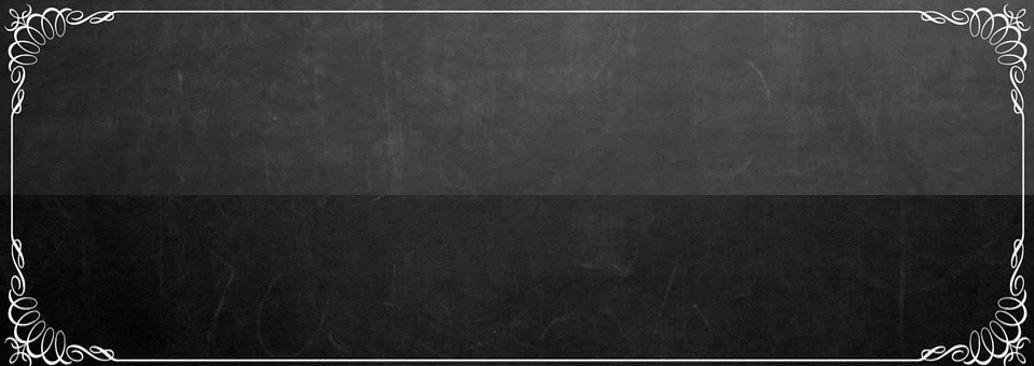
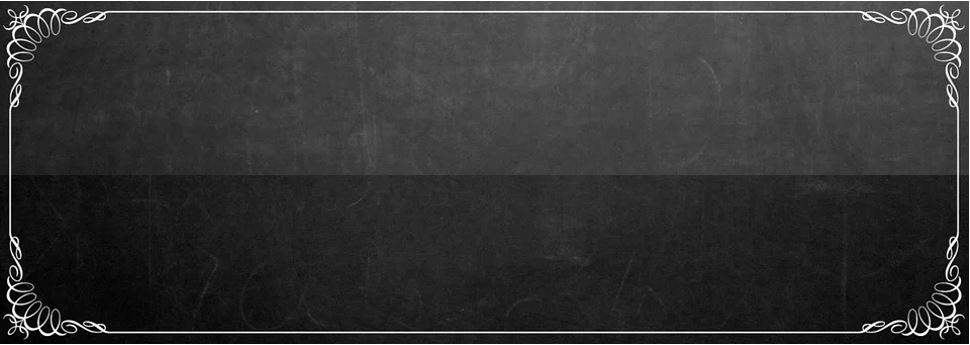
fixed 21 or older header image scale

diff --git a/templates/index.html b/templates/index.html
@@ -43,21 +43,25 @@
         <div class="container-fluid">
             <section id="Age">
                 <section id="figure">
-                    <h3 style="text-align: center">Are you 21 or Older?</h3>
-                    <hr>
+                    <img src="../Images\21_2.JPG" alt="ack">
+                    <br>
+                    <br>
+                    <br>
                     <div class="row">
                         <div class="col-md-12">
-                            <svg height="250" width="250">
-                                <a xlink:href="homepage.html" alt="ack">
-                                    <circle cx="55" cy="60" r="45" stroke="green" stroke-width="3" fill="green" />
-                                    <text x="40" y="65" fill="black" font-weight="bold">YES!</text>
-                                </a>
-                                <a xlink:href="not_21.html" alt="ack">
-                                    <circle cx="55" cy="170" r="45" stroke="red" stroke-width="3" fill="red" />
-                                    <text x="40" y="175" fill="black" font-weight="bold">NO!</text>
-                                </a>
-                            </svg>
-                            <a href="homepage.html">
+                            <div class="container-fluid">
+                                <svg height="250" width="2000">
+                                    <a xlink:href="homepage.html" alt="ack">
+                                        <circle cx="750" cy="60" r="50" stroke="green" stroke-width="3" fill="green" />
+                                        <text x="735" y="65" fill="black" font-weight="bold">YES!</text>
+                                    </a>
+                                    <a xlink:href="not_21.html" alt="ack">
+                                        <circle cx="925" cy="60" r="50" stroke="red" stroke-width="3" fill="red" />
+                                        <text x="910" y="65" fill="black" font-weight="bold">NO!</text>
+                                    </a>
+                                </svg>
+                            </div>
+                            <!-- <a href="homepage.html">
                                 <img src="../Images\enter.PNG" alt="ack" width=250>
                             </a>
                         </div>
@@ -68,7 +72,7 @@
                         <div class="col-md-12">
                             <a href="not_21.html">
                                 <img src="../Images\exit.PNG" alt="ack" width=250>
-                            </a>
+                            </a> -->
                         </div>
                     </div>
                 </section>
